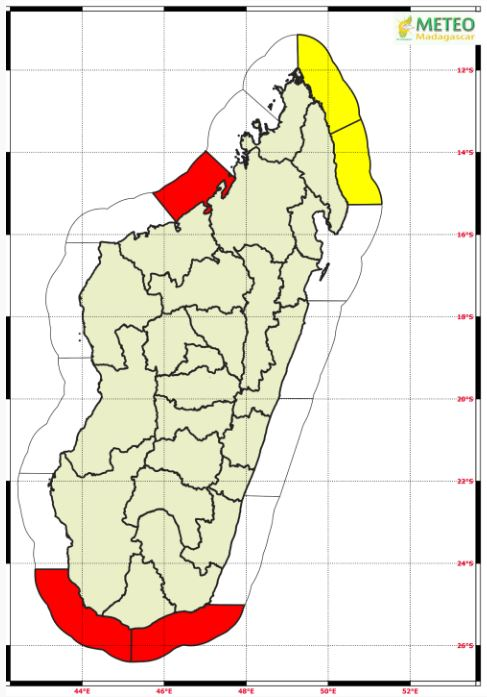
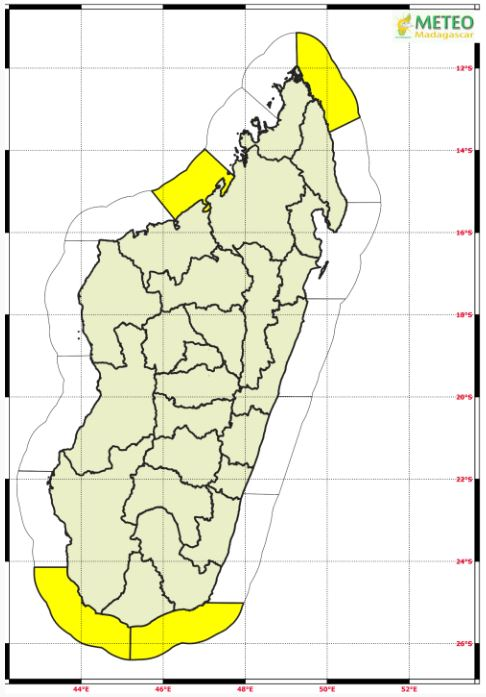
vigi wind on 09/09/2025

diff --git a/assets/js/script.js b/assets/js/script.js
@@ -7,21 +7,20 @@ const vigilanceMessages = [
         message: `✅ **Aucune vigilance ou alerte en cours pour la Région BOENY**  
 Les conditions météorologiques sont calmes pour les prochains jours.  
 Restez informé en cas d’évolution de la situation.`,
-        image: 'vigilance-vide.jpg'
+        image: 'vigilance-vide1.jpg'
     },
     {
         message: `**fampitandremana momba ny hamafin'ny rivotra** 
 
-        **Novokarina ny Alatsinainy 18 Aogositra 2025 tamin’ny 14 ora 45 min.** 
+        **Novokarina ny Talata 9 Septambra 2025 Tamin’ny 09 ora 46 min** 
 
        ** Tranga ahiana sy toerana hisehoany:**
-Ho mafy ny fitsokan’ny rivotra eo anelanelan’i Ampanihy sy Taolagnaro, Mahajanga sy Analalava ary Antalaha sy ny tanjona Bobaomby. Tombanana hahatratra 55 Km/ora ny hamafin’ny rivotra.
-**Fotoana hisehoany:**  
-– Anio 18 Aogositra 2025 alina hatramin’ny rahampitso Talata 19 Aogositra 2025 ny eo anelanelan’i Mahajanga sy Analalava;
+Ho mafy ny fitsokan’ny rivotra eo anelanelan’i Itampolo sy Taolagnaro, Mahajanga sy Analalava ary Vohemar sy ny Tanjona Bobaomby. Tombanana hahatratra 55Km/ora ny hamafin’ny rivotra.**Fotoana hisehoany:**  
+Rahampitso 10 Septambra 2025
 
 **Ireo toerana voakasika:**
-**Fanairana miloko MENA :** 
-Ampanihy hatrany Taolagnaro sy Mahajanga hatrany Analalava.
+**Fanairana miloko MAVO :** 
+Mahajanga hatrany Analalava;
 
 
 **Ny mety ho fiantraikany:**
@@ -30,7 +29,7 @@ Ampanihy hatrany Taolagnaro sy Mahajanga hatrany Analalava.
 
 
 ⚠Entanina ny rehetra mba hanaraka hatrany ny toromarika omen’ny manam-pahefana isan-tokony.⚠`,
-        image: 'vigilance_vent1.png'
+        image: 'vigilance_vent.png'
     },
     {
         message: `**Vigilance vent fort**  
